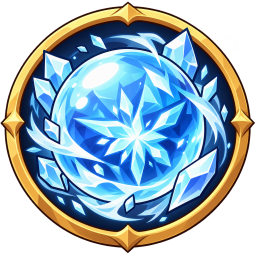
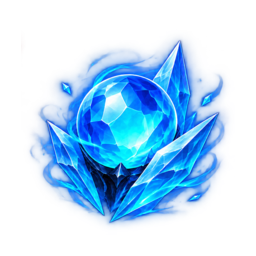
art: add three transparent fantasy item samples for 7s

diff --git a/art_inbox/YEU_CAU_ANH.md b/art_inbox/YEU_CAU_ANH.md
@@ -419,6 +419,19 @@ Người chơi chọn kiểu **vuông** như `00_style/icon_mau_shop.png` cho **
 `item_frost_orb` (Ngọc Băng Sương), `item_shadow_blade` (Lưỡi Ẩn Thân). Chạy `python tools/icon_preview.py`
 và nộp kèm `_preview.png`. Duyệt xong thì làm **lại cả 4 món đồ của 7a** theo kiểu vuông rồi mới tới 7b.
 
+### Kết quả 7s — 2026-10-23 — CHỜ DUYỆT TRONG GAME
+
+Đã xuất 3 item theo ảnh chuẩn `00_style/icon_mau_vuong_7s.png`: giữ thiết kế fantasy sắc nét và màu nhấn đỏ / xanh băng / tím; bỏ toàn bộ nền và khung của ảnh minh họa. PNG alpha 256 × 256, vật phẩm và hào quang nằm gọn trong ô, không đĩa tròn.
+
+| Xong | File |
+|---|---|
+| [x] | `04_icons/item_demon_edge.png` |
+| [x] | `04_icons/item_frost_orb.png` |
+| [x] | `04_icons/item_shadow_blade.png` |
+| [x] | `04_icons/_preview.png` — đúng 3 mẫu 7s ở 48 / 64 / 84 px và bản làm tối |
+
+Đã chạy `tools/icon_preview.py` và mở ảnh kiểm tra. Chưa đổi 4 món đồ 7a, chưa làm 7b; dừng chờ người dùng kiểm tra lô 7s. Chỉ thay đổi `art_inbox/`, không nhập vào `assets/`.
+
 ### Thứ tự
 
 - **7a — mẫu, rồi DỪNG chờ duyệt:** `item_sages_mask`, `item_ring_regen`, `item_gauntlets`,
